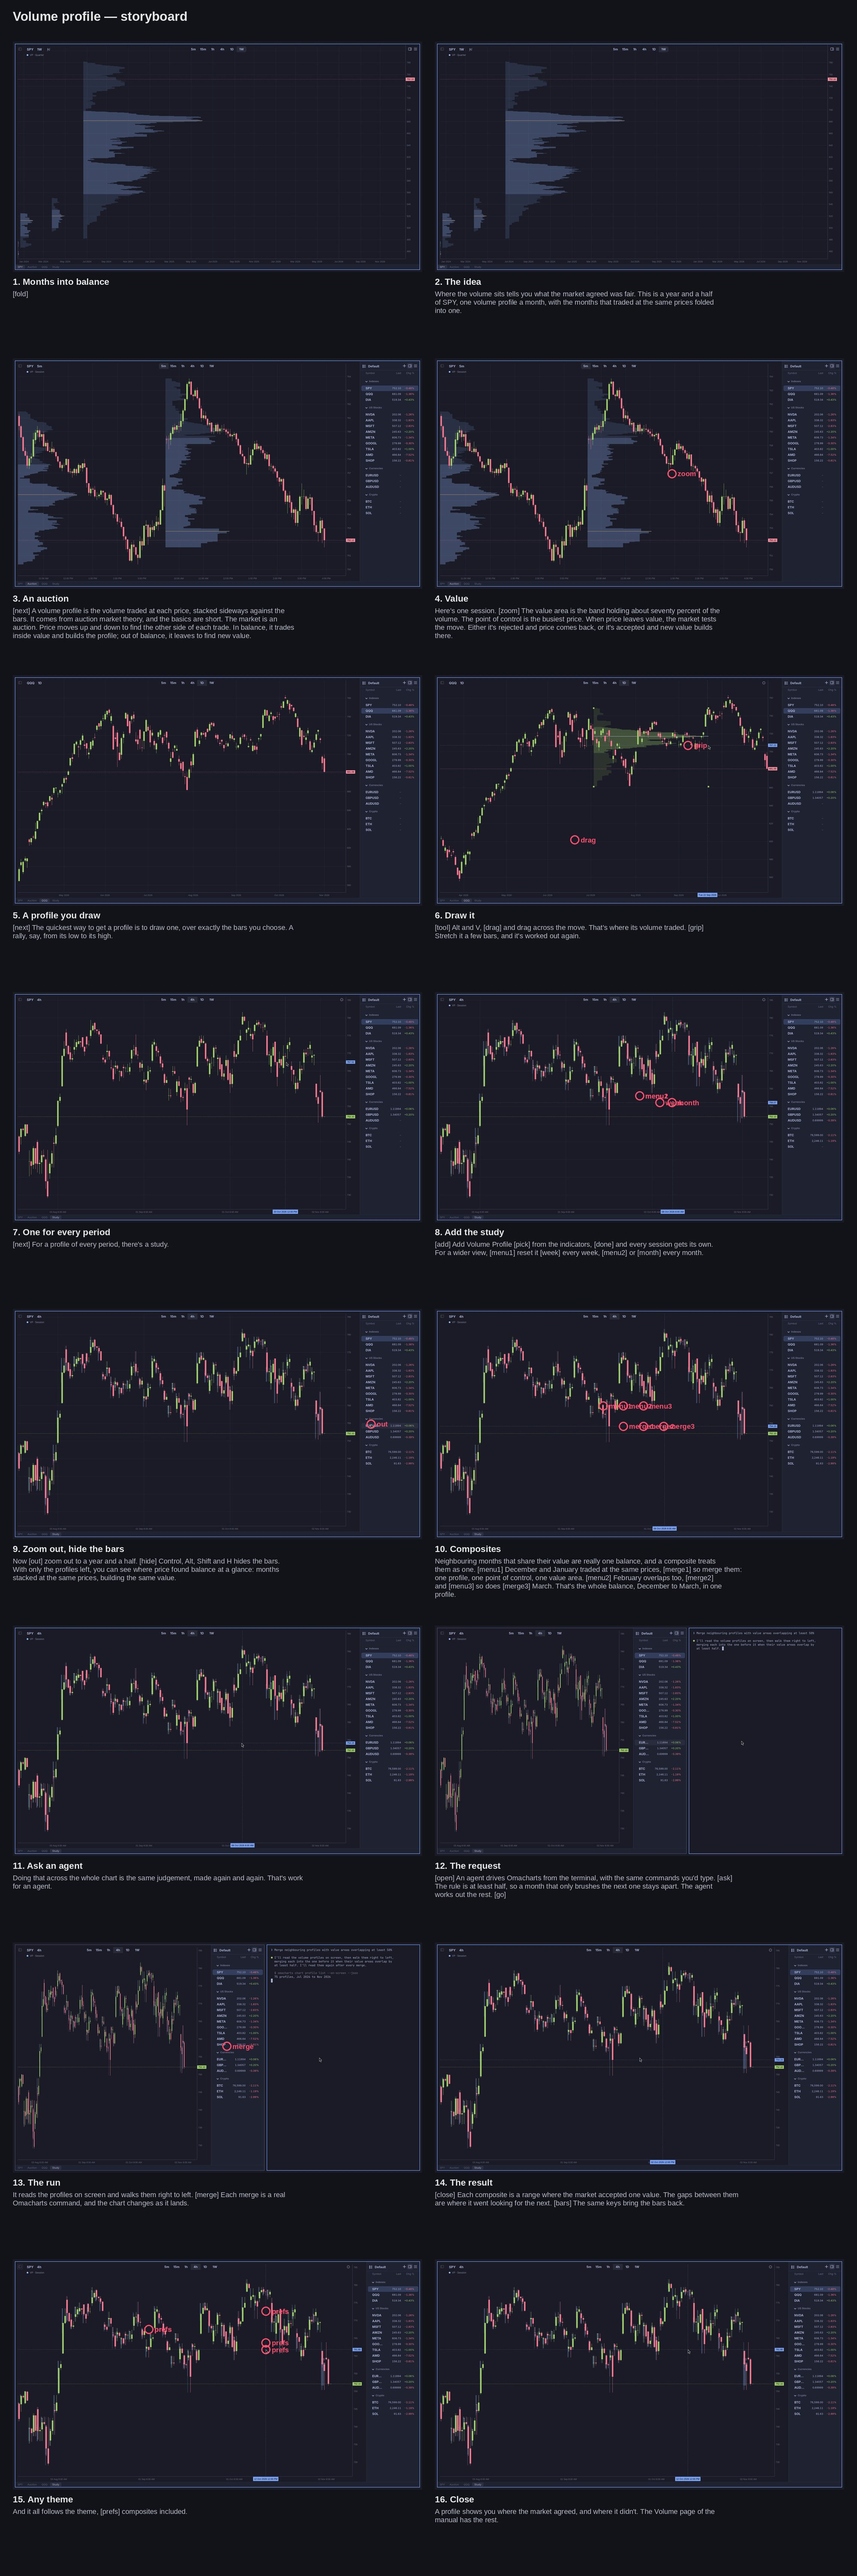
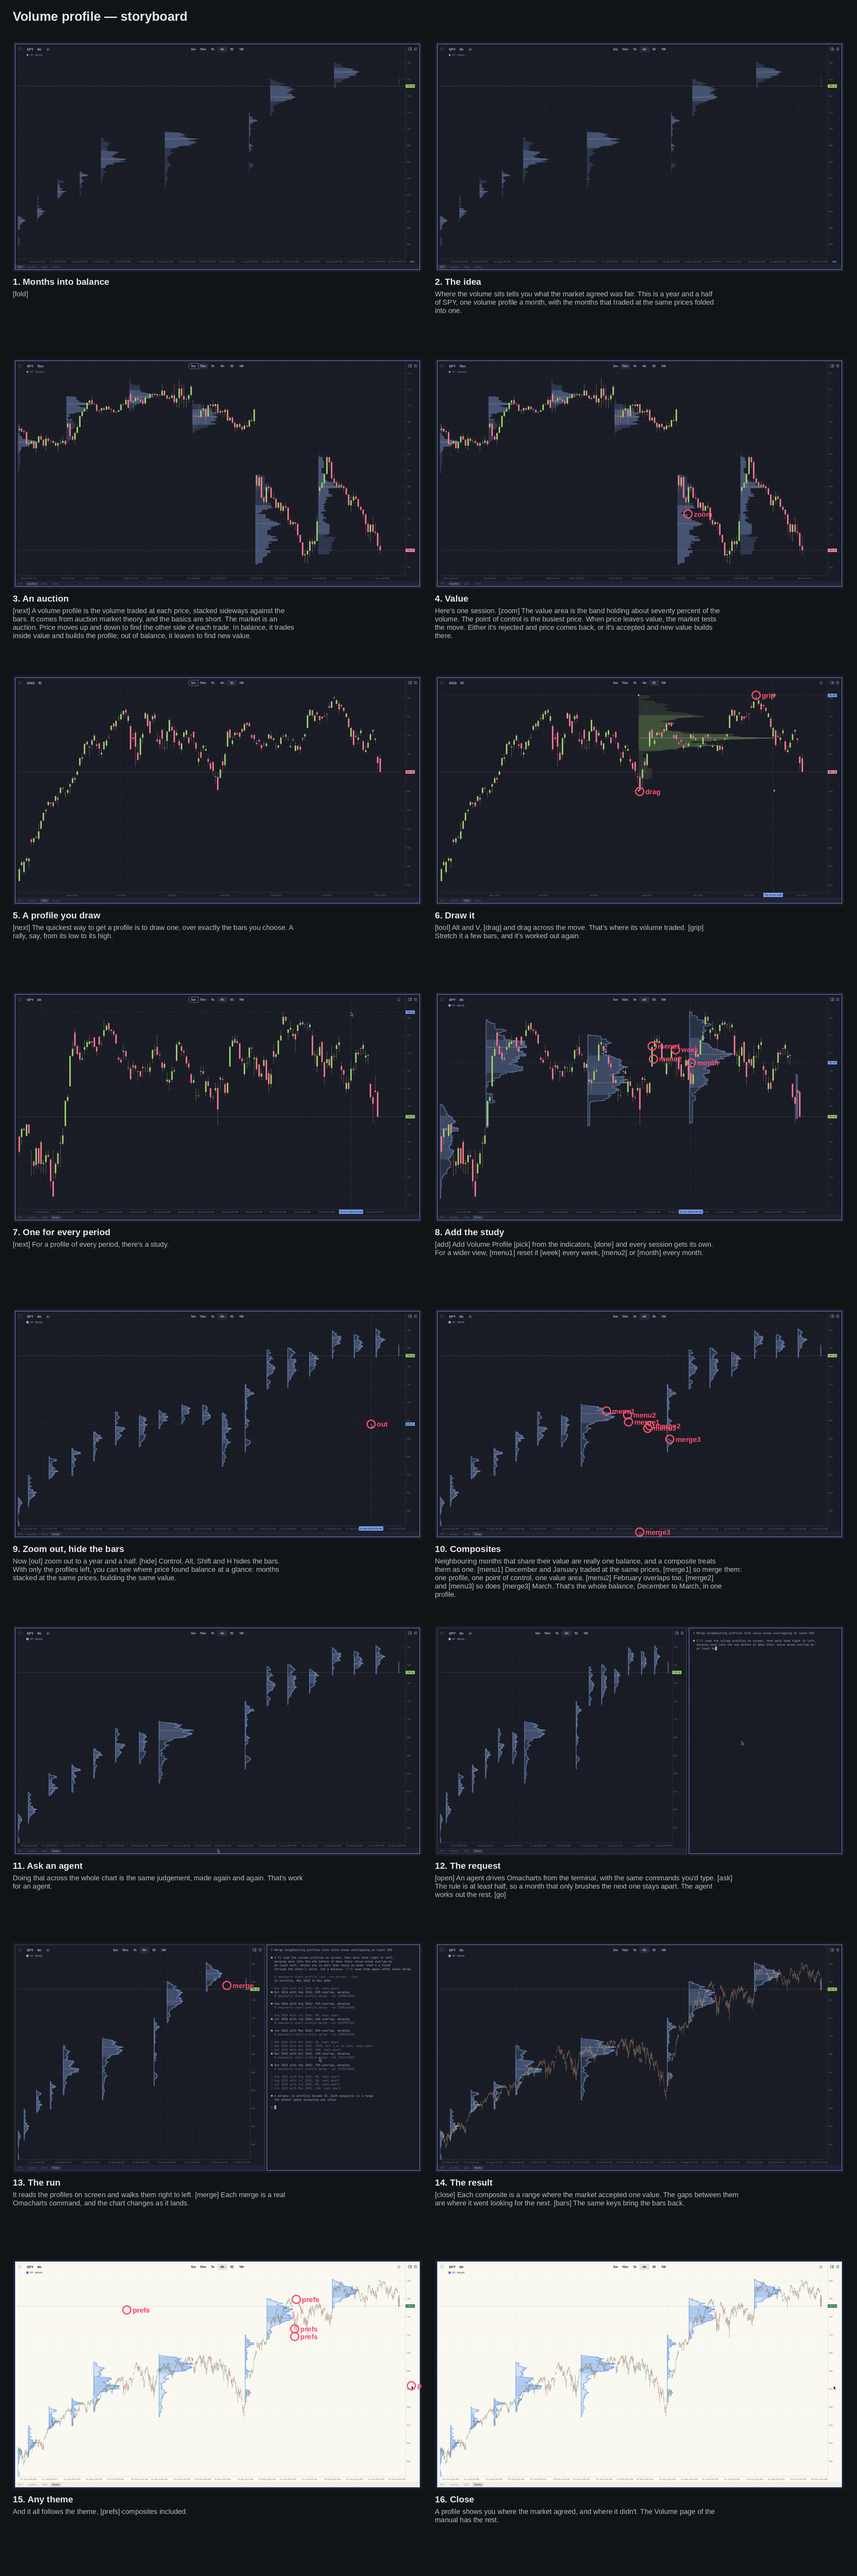
Fix the Volume profile storyboard: the teaser on 4h months, no sidebar, the study and composites that land
The teaser opened on SPY weekly with quarter profiles, because `chart range`
picks its own resolution; it now sets 4h and comes last in Setup, on SPY,
since a chartbook switched to keeps its zoom but jumps to its latest bar.
The sidebar is each chartbook's own and opens shown, so Setup visits every
chartbook and hides it with Ctrl+B. Auction moves to 15m bars, where a week
of sessions survives the switch.

Every click is re-pinned from stills: Reset every Week and Month on a
profile's rows, the zoom out to 18 months, the three by-hand merges
(December 2025 to March 2026), the Preferences Theme rows for Carbon and
Paper, and the drawing on QQQ.

Ctrl+Alt+Shift+H never hid the bars: wtype's one-level keymap makes GTK
miss every accelerator with Shift and a letter. bin/virtual-keyboard sends
those chords through the US keymap a real keyboard has.

The agent kept April 2026 out of the hand-made composite only by chance of
order; it now also keeps apart a pair whose value areas differ more than
twice in width (a trend through the other's value), which leaves exactly
the four composites of the author's run and of the teaser.

diff --git a/video/scripts/volume-profile.md b/video/scripts/volume-profile.md
@@ -103,28 +103,42 @@ idea that ties the video together.
 
 Four chartbooks, one per stretch of the video, in strip order: SPY (the
 teaser: four-hour, monthly profiles, eighteen months, bars hidden), Auction
-(SPY five-minute, regular session, session profiles), QQQ (daily, six
+(SPY fifteen-minute, regular session, session profiles), QQQ (daily, six
 months, nothing on it) and Study (SPY four-hour, three months, nothing on
 it yet). New charts open on no chart template, so nothing leaks into the
-Default template. The sidebar is hidden for the whole video.
+Default template. The sidebar is hidden for the whole video: it is each
+chartbook's own, and a new one opens with it shown, so every chartbook is
+visited once at the end and Ctrl and B hides it there. A span set with
+`chart range` picks its own resolution unless one is given, and a chartbook
+switched to comes back at the same zoom but on its latest bar, so the
+teaser's eighteen months are set last, on SPY, and the Auction chart is on
+fifteen-minute bars, where a week of sessions survives the switch.
 
     cli template default none
     cli chartbook rename "Chartbook 1" SPY
-    cli chart set --symbol SPY --resolution 4h --template none --bars off
+    cli chart set --symbol SPY --template none --bars off
     cli chart indicator add volume_profile --anchor month
-    cli chart range 18m
     cli chartbook create Auction --symbol SPY --switch
-    cli chart set --resolution 5m --session regular
+    cli chart set --session regular
     cli chart indicator add volume_profile
-    cli chart range "oct 27:oct 30"
+    cli chart range "oct 27:oct 30" --resolution 15m
     cli chartbook create QQQ --symbol QQQ --switch
-    cli chart set --resolution 1D
-    cli chart range 6m
+    cli chart range 6m --resolution 1D
     cli chartbook create Study --symbol SPY --switch
-    cli chart set --resolution 4h
-    cli chart range 3m
-    cli chartbook switch SPY
+    cli chart range 3m --resolution 4h
+    wait 1.5
     key ctrl+b
+    cli chartbook switch QQQ
+    wait 1.5
+    key ctrl+b
+    cli chartbook switch Auction
+    wait 1.5
+    key ctrl+b
+    cli chartbook switch SPY
+    wait 1.5
+    key ctrl+b
+    cli chart range 18m --resolution 4h
+    wait 1.0
 
 ## Script
 
@@ -160,8 +174,8 @@ the months that traded at the same prices folded into one.
 ### 3. An auction
 
 **Picture.** Ctrl and Alt and right arrow: the Auction chartbook, SPY on
-five-minute bars over four regular sessions, a session profile at the
-start of each, the value area stronger and the point of control a line
+fifteen-minute bars over the last week's regular sessions, a session
+profile at the start of each, the value area stronger and the point of control a line
 across it. Nothing else moves.
 
 **Voice.** {next}A volume profile is the volume traded at each price,
@@ -176,7 +190,7 @@ profile; out of balance, it leaves to find new value.
 ### 4. Value
 
 **Picture.** The same chart. On "value area", one zoom of about two times
-on the third session's profile, framing its stronger band and the point
+on Friday's profile, the widest of the week, framing its stronger band and the point
 of control line together. Nothing else acts in the scene, so it holds
 for the composer's longest, eight seconds, through the value area and
 point of control lines and into "When price leaves value", then eases back
@@ -188,7 +202,7 @@ price. When price leaves value, the market tests the move. Either it's
 rejected and price comes back, or it's accepted and new value builds
 there.
 
-    zoom: zoom 58% 50% 2.0
+    zoom: zoom 62% 68% 2.0
     after: 0.8
 
 ### 5. A profile you draw
@@ -216,8 +230,8 @@ worked out again.
 its volume traded. {grip}Stretch it a few bars, and it's worked out again.
 
     tool: key alt+v
-    drag: drag 34% 72% 62% 30%
-    grip: drag 62% 30% 67% 30%
+    drag: drag 50% 50.5% 78.8% 7.8%
+    grip: drag 78.8% 7.8% 83% 7.8%
     after: 1.0
 
 ### 7. One for every period
@@ -252,10 +266,10 @@ week, {menu2}or {month}every month.
     add:   key ctrl+shift+i
     pick:  type profile; key Return
     done:  key ctrl+Return
-    menu1: rclick 50% 45%
-    week:  click 55% 48%
-    menu2: rclick 50% 45%
-    month: click 58% 48%
+    menu1: rclick 53.1% 22.9%
+    week:  click 58.9% 24.5%
+    menu2: rclick 53.4% 28.6%
+    month: click 62.8% 30.3%
     after: 1.0
 
 ### 9. Zoom out, hide the bars
@@ -272,7 +286,7 @@ Shift and H hides the bars. With only the profiles left, you can see where
 price found balance at a glance: months stacked at the same prices,
 building the same value.
 
-    out:  scroll 88% 50% 8
+    out:  scroll 88% 50% 11
     hide: key ctrl+alt+shift+h
     after: 1.2
 
@@ -293,12 +307,12 @@ control, one value area. {menu2}February overlaps too, {merge2}and
 {menu3}so does {merge3}March. That's the whole balance, December to March,
 in one profile.
 
-    menu1:  rclick 41% 42%
-    merge1: click 46% 51%
-    menu2:  rclick 46% 42%
-    merge2: click 51% 51%
-    menu3:  rclick 51% 42%
-    merge3: click 56% 51%
+    menu1:  rclick 41.8% 44.3%
+    merge1: click 47.3% 49.1%
+    menu2:  rclick 47% 46%
+    merge2: click 52.5% 50.8%
+    menu3:  rclick 52% 51.9%
+    merge3: click 57.5% 56.8%; move 50% 98%
     after: 1.2
 
 ### 11. Ask an agent
@@ -338,20 +352,23 @@ chart profile list --on-screen --json` and how many profiles it found.
 Then it walks them right to left, a line per pair: a merge prints its
 overlap and the real `omacharts chart profile merge --at …`, and the
 profile on the left folds into its neighbour as it lands; a pair that
-doesn't overlap enough says "kept apart" in grey. On "Each", timed to the
+doesn't overlap enough says "kept apart" in grey, and so does April
+2026 against the December to March composite: they overlap, but April's
+value area is more than twice as wide, a month that trended through that
+value rather than shared it. On "Each", timed to the
 first merge (October 2026 into September), one zoom of about 1.8 times on
 those two profiles at the right of the chart pane, held until it eases
 back for the rest, which run at their own pace. It ends on its summary
 line, how many merges and how many profiles there are now. The run takes
-about seventeen seconds at this pace, six merges and eight pairs kept
-apart; the storyboard measures it and sets `after:` so the summary line
+about seventeen seconds at this pace, six merges and nine pairs kept
+apart, leaving the four composites of scene 1; the storyboard measures it and sets `after:` so the summary line
 is on screen and read before the scene ends.
 
 **Voice.** It reads the profiles on screen and walks them right to left.
 {merge}Each merge is a real Omacharts command, and the chart changes as it
 lands.
 
-    merge: zoom 85% 45% 1.8
+    merge: zoom 85% 18% 1.8; wait 13
     after: 12
 
 ### 14. The result
@@ -385,7 +402,7 @@ up in the gap.
 
 **Voice.** And it all follows the theme, {prefs}composites included.
 
-    prefs: key ctrl+comma; wait 0.8; click 33% 30%; wait 0.6; click 62% 22%; wait 0.5; click 62% 36%; wait 0.6; key Escape; wait 2.0; key ctrl+comma; wait 0.8; click 33% 30%; wait 0.6; click 62% 22%; wait 0.5; click 62% 39%; wait 0.6; key Escape
+    prefs: key ctrl+comma; wait 0.8; click 27.6% 21.4%; wait 0.6; click 69.5% 16.7%; wait 0.5; click 69.1% 29.8%; wait 0.6; key Escape; wait 2.0; key ctrl+comma; wait 0.8; click 27.6% 21.4%; wait 0.6; click 69.5% 16.7%; wait 0.5; click 69.1% 33.2%; wait 0.6; key Escape; move 98% 55%
     after: 13.5
 
 ### 16. Close
@@ -403,3 +420,7 @@ didn't. The Volume page of the manual has the rest.
 - SPY: S P Y
 - QQQ: triple Q
 - Omacharts: Oma-charts
+
+## Storyboard
+
+![Storyboard](../storyboards/volume-profile.jpg)

diff --git a/.claude/skills/video/studio.md b/.claude/skills/video/studio.md
@@ -94,6 +94,18 @@ protocol for the mouse. Lessons, each paid for:
   keymap, and a chord sent before the far end has read it arrives as the bare
   letter (which opens the symbol search). 300ms before the first key and
   120ms around modifiers are what held up while the machine was busy.
+- **Shift over a letter goes through `bin/virtual-keyboard`.** wtype's
+  keymap holds only the keys it types, one level each, and GTK then
+  matches no accelerator with Shift and a letter in it: Ctrl+Shift+H and
+  Ctrl+Alt+Shift+H did nothing in the studio (Ctrl+Shift+I only worked
+  because the app catches it by hand). `virtual-keyboard` uploads the US
+  keymap a real keyboard has and presses the modifiers as keys; `key` uses
+  it for any chord with Shift and a letter, wtype for the rest.
+- A chartbook's sidebar is its own (`sidebar_shown`, not scriptable), and a
+  new one opens with it shown: hide it with Ctrl+B once on each, after the
+  switch has settled. A chartbook switched to comes back at the zoom it had
+  but on its latest bar, and very wide views are cut down, so a span that
+  must be on screen is set after the last switch to that chartbook.
 - A fresh window ignores its first chord: the studio sends two Escapes on
   start, never anything on camera.
 - No Hyprland animations, and `disable_watchdog_warning`: a nested Hyprland
